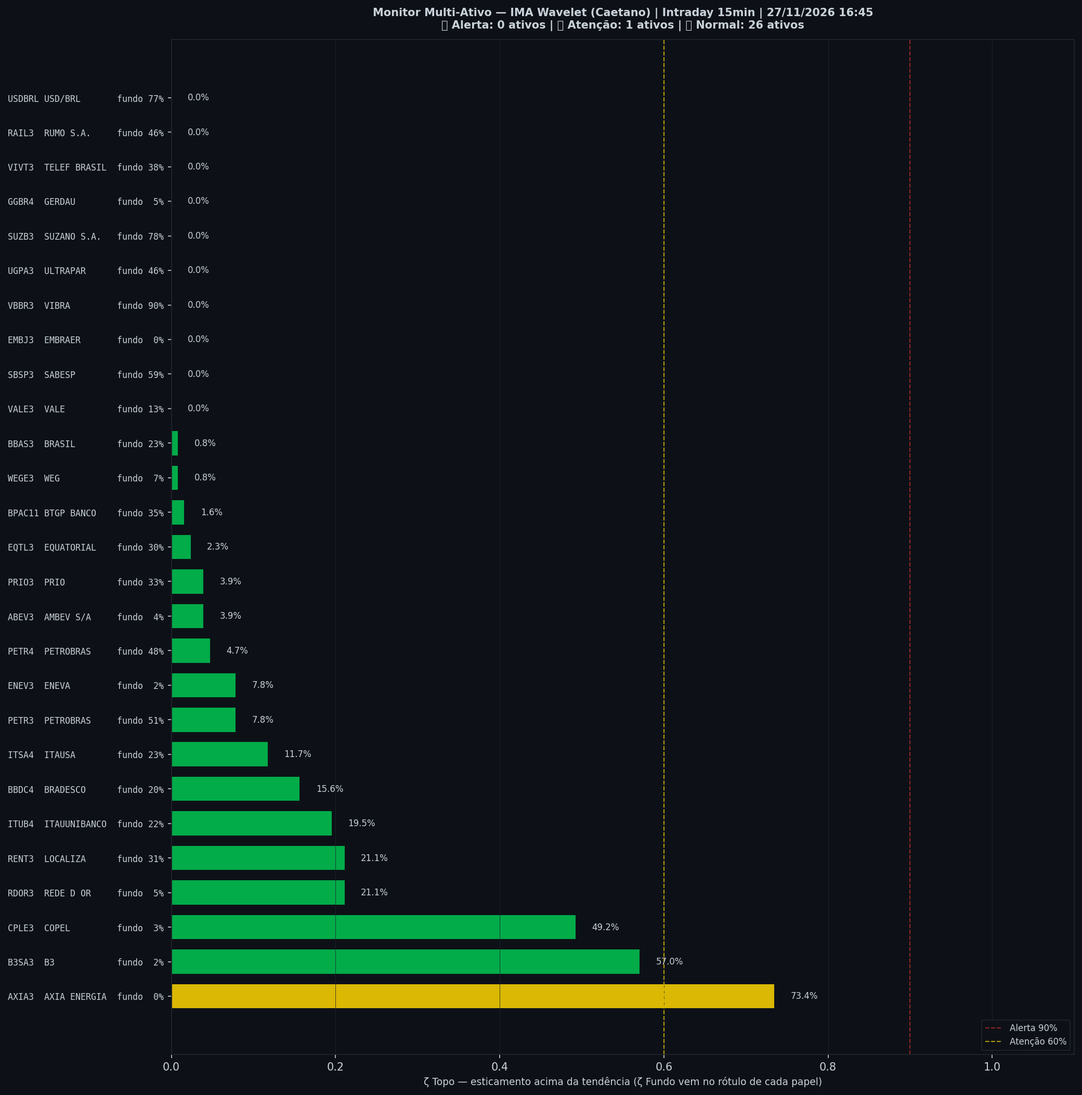
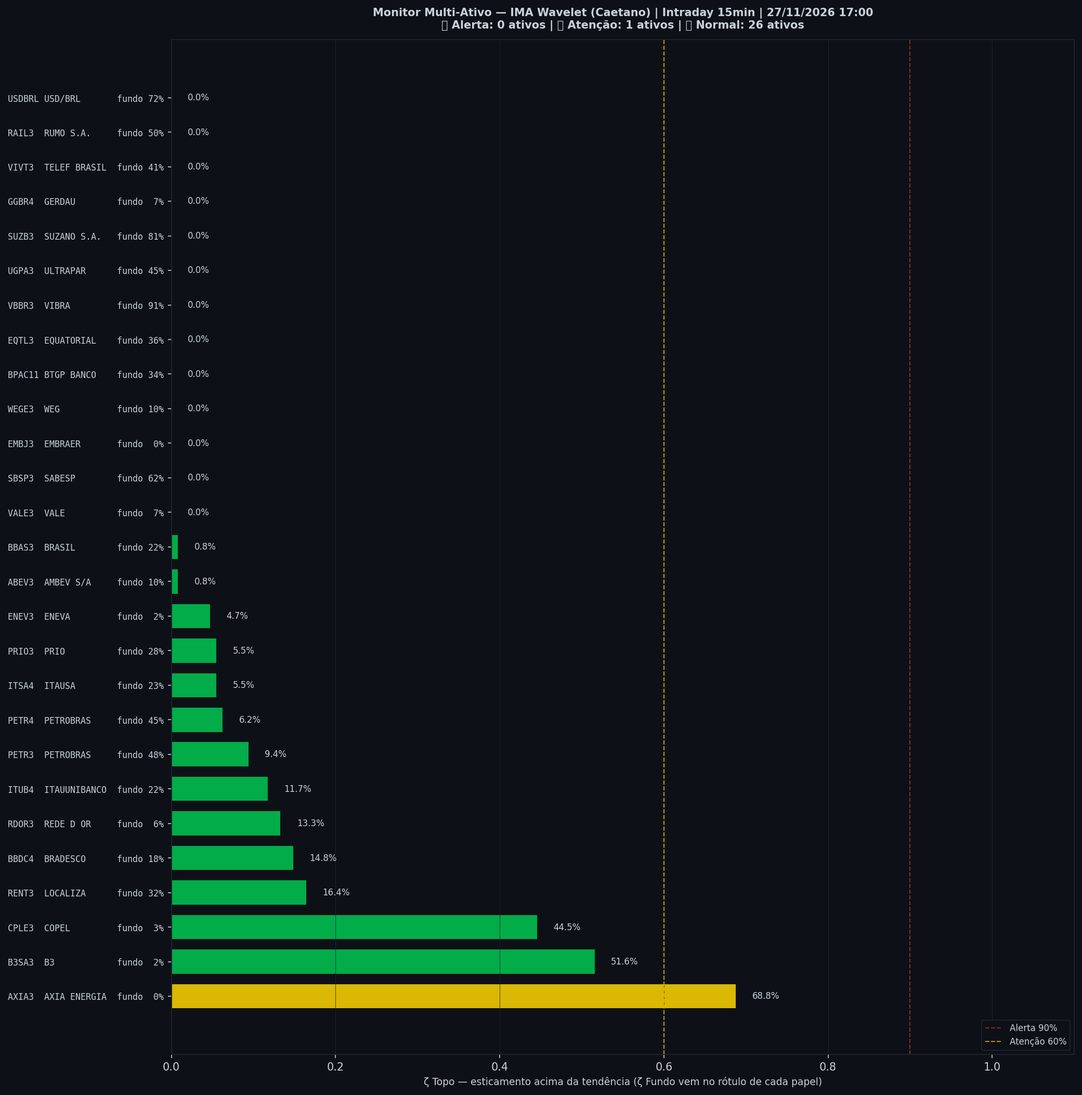
🤖 Auto: Sinal 27/11/2026 17:00

diff --git a/content/intraday/2026-11-27.md b/content/intraday/2026-11-27.md
@@ -1,19 +1,19 @@
 ---
-title: "🟢 Intraday 27/11/2026 16:30 BRT — VERDE"
+title: "🟢 Intraday 27/11/2026 16:45 BRT — VERDE"
 date: 2026-11-27
 tags: [intraday]
 ---
 
-<p style="margin:.4rem 0 .2rem"><span style="display:inline-block;text-align:center;margin:0 1.8rem .2rem 0"><span style="font-size:4rem;font-weight:800;line-height:1;color:inherit">0%</span><br><span style="font-size:.95rem;opacity:.75">ζ Topo</span></span><span style="display:inline-block;text-align:center;margin:0 1.8rem .2rem 0"><span style="font-size:4rem;font-weight:800;line-height:1;color:inherit">30%</span><br><span style="font-size:.95rem;opacity:.75">ζ Fundo</span></span><span style="display:inline-block;text-align:center;margin:0 1.8rem .2rem 0"><span style="font-size:4rem;font-weight:800;line-height:1;color:#f78166">+5,0%</span><br><span style="font-size:.95rem;opacity:.75">Dist. da média · p97</span></span></p><p data-carimbo="27/11/2026 16:30 BRT" style="margin:0 0 .9rem;opacity:.7;font-size:.9rem">27/11/2026 16:30 BRT · início do candle de 15 min</p>
+<p style="margin:.4rem 0 .2rem"><span style="display:inline-block;text-align:center;margin:0 1.8rem .2rem 0"><span style="font-size:4rem;font-weight:800;line-height:1;color:inherit">0%</span><br><span style="font-size:.95rem;opacity:.75">ζ Topo</span></span><span style="display:inline-block;text-align:center;margin:0 1.8rem .2rem 0"><span style="font-size:4rem;font-weight:800;line-height:1;color:inherit">30%</span><br><span style="font-size:.95rem;opacity:.75">ζ Fundo</span></span><span style="display:inline-block;text-align:center;margin:0 1.8rem .2rem 0"><span style="font-size:4rem;font-weight:800;line-height:1;color:#f78166">+5,0%</span><br><span style="font-size:.95rem;opacity:.75">Dist. da média · p97</span></span></p><p data-carimbo="27/11/2026 16:45 BRT" style="margin:0 0 .9rem;opacity:.7;font-size:.9rem">27/11/2026 16:45 BRT · início do candle de 15 min</p>
 
-> [!success] Onde o mercado está agora (27/11 16:30, candles de 15 min): **🟢 Sem esticamento**
+> [!success] Onde o mercado está agora (27/11 16:45, candles de 15 min): **🟢 Sem esticamento**
 > `Pânico ◀───────●─────────────▶ Euforia` · ζ Topo **0%** · ζ Fundo **30%** · régua = ζ Topo − ζ Fundo = **−30 p.p.**
 >
-> **O Ibovespa está praticamente de lado agora, aos 177.312 pontos.** O preço não fez movimento brusco em relação à sua tendência, nem para cima nem para baixo. Isso fala da velocidade do movimento, não do nível do preço.
+> **O Ibovespa está praticamente de lado agora, aos 177.375 pontos.** O preço não fez movimento brusco em relação à sua tendência, nem para cima nem para baixo. Isso fala da velocidade do movimento, não do nível do preço.
 >
 > *Leitura educacional baseada em 26 anos de dados. Não é recomendação de investimento.*
 
-> [!success] IMA Intraday · 15 min (27/11 16:30): 🟢 **VERDE** — ζ Topo **0%** · ＝ +0 p.p. vs leitura anterior
+> [!success] IMA Intraday · 15 min (27/11 16:45): 🟢 **VERDE** — ζ Topo **0%** · ＝ +0 p.p. vs leitura anterior
 > `░░░░░░░░░░░░░░░░░░░░` **0%**
 > Sem esticamento brusco em relação à tendência.
 
@@ -22,12 +22,12 @@ tags: [intraday]
 
 
 
-| Indicador — IMA Intraday · 15 min (27/11 16:30) | Valor |
+| Indicador — IMA Intraday · 15 min (27/11 16:45) | Valor |
 |---|---|
 | ζ Topo — preço esticado acima da tendência | **0%** |
 | ζ Fundo — preço esticado abaixo da tendência | 30% |
 | 🟢 Zona | VERDE |
-| 📊 Ibovespa | 177.312 pts <span style="color:#3fb950" title="subiu">▲</span> (+0,09%) |
+| 📊 Ibovespa | 177.375 pts <span style="color:#3fb950" title="subiu">▲</span> (+0,04%) |
 | 📏 Distância da média | 🔴 +5,0% (p97) |
 | 🛰 Fonte do preço | preço da corretora, tempo real |
 
@@ -39,6 +39,7 @@ tags: [intraday]
 
 | Início do candle | Fechamento | Zona | Evento | ζ Topo | ζ Fundo | Dist. média |
 |---|---|---|---|---|---|---|
+| 2026-11-27 16:45 | 177.375 <span style="color:#3fb950" title="subiu">▲</span> | 🟢 |  | **0%** | **30%** | 🔴 +5,0% (p97) |
 | 2026-11-27 16:30 | 177.312 <span style="color:#3fb950" title="subiu">▲</span> | 🟢 |  | **0%** | **30%** | 🔴 +5,0% (p97) |
 | 2026-11-27 16:15 | 177.147 <span style="color:#3fb950" title="subiu">▲</span> | 🟢 |  | **0%** | **29%** | 🔴 +4,9% (p96) |
 | 2026-11-27 16:00 | 177.055 <span style="color:#f85149" title="caiu">▼</span> | 🟢 |  | **4%** | **29%** | 🔴 +4,8% (p96) |
@@ -68,54 +69,53 @@ tags: [intraday]
 | 2026-11-27 10:00 | 183.289 <span style="color:#3fb950" title="subiu">▲</span> | 🔴 |  | 🔴 **97%** | **1%** | 🔴 +9,1% (p100) |
 | 2026-11-26 18:00 | 176.800 <span style="opacity:.45" title="estável">▬</span> | 🔴 |  | 🔴 **99%** | **1%** | 🔴 +5,3% (p100) |
 | 2026-11-26 17:45 | 176.800 <span style="color:#3fb950" title="subiu">▲</span> | 🔴 |  | 🔴 **98%** | **2%** | 🔴 +5,3% (p100) |
-| 2026-11-26 17:30 | 175.491 <span style="color:#3fb950" title="subiu">▲</span> | 🔴 |  | 🔴 **97%** | **2%** | 🔴 +4,5% (p100) |
 
 <small>Destaques: 🟡 ≥ 60% · 🔴 ≥ 90% (ζ Topo) · 🔵 ≥ 60% · 🔪 ≥ 90% (ζ Fundo)<br>**Zona**: 🟢 calmo, 🟡 atenção e 🔴 extremo vêm do ζ Topo; 🔵 FUNDO (ζ Fundo ≥ 60%) e 🔪 FACA (≥ 90%) vêm do ζ Fundo e têm precedência, porque queda em andamento é fato medido, não previsão.<br>**Dist. média**: a distância do preço à média dos 252 candles de 15 min — **≈ 7,6 pregões**, medido em 33 barras por pregão — e, entre parênteses, o percentil dessa distância nos 500 candles anteriores (**≈ 15 pregões**). `−8,2% (p0)` = o preço está 8,2% **abaixo** da média e nunca esteve tão abaixo em toda a janela. 🔵 ≤ p10 · 🔴 ≥ p90. É a régua simples contra a qual o ζ precisa provar que acrescenta algo.</small>
 
 ## Monitor Multi-Ativo
 
-**22% dos ativos em tensão** (6 de 27 · 3🔵 3🟡) · leitura de 27/11 16:45 BRT, candles de 15 min — quanto mais ativos disparam juntos, mais confiável o sinal. 🔪 e 🔵 vêm do ζ Fundo; 🔴 e 🟡, do ζ Topo.
+**22% dos ativos em tensão** (6 de 27 · 1🔪 3🔵 2🟡) · leitura de 27/11 17:00 BRT, candles de 15 min — quanto mais ativos disparam juntos, mais confiável o sinal. 🔪 e 🔵 vêm do ζ Fundo; 🔴 e 🟡, do ζ Topo.
 
 *Origem do preço: 26 da corretora, em tempo real · 1 da reserva, com cerca de 45 min de atraso (USD/BRL).*
 
-> [!warning] Em destaque no multi-ativo
-> 🔵 **VIBRA** `VBBR3` ζ Fundo 90% · 🔵 **SUZANO S.A.** `SUZB3` ζ Fundo 78% · 🔵 **USD/BRL** `USDBRL=X` ζ Fundo 77% · 🟡 **AXIA ENERGIA** `AXIA3` ζ Topo 73%
+> [!danger] Em destaque no multi-ativo
+> 🔪 **VIBRA** `VBBR3` ζ Fundo 91% · 🔵 **SUZANO S.A.** `SUZB3` ζ Fundo 81% · 🔵 **USD/BRL** `USDBRL=X` ζ Fundo 72% · 🟡 **AXIA ENERGIA** `AXIA3` ζ Topo 69% · 🔵 **SABESP** `SBSP3` ζ Fundo 62%
 
 | Zona | Ativo | Setor | Fechamento | ζ Topo | ζ Fundo | Dist. média |
 |---|---|---|---|---|---|---|
-| 🔵 | **VIBRA** `VBBR3` | Energia | 33,98 <span style="color:#3fb950" title="subiu">▲</span> | 0.0% | 🔵 **89.8%** | 🔴 +7,6% (p91) |
-| 🔵 | **SUZANO S.A.** `SUZB3` | Papel/Celulose | 53,05 <span style="color:#3fb950" title="subiu">▲</span> | 0.0% | 🔵 **78.1%** | 🔵 −3,8% (p2) |
-| 🔵 | **USD/BRL** `USDBRL=X` | Câmbio | 5,52 <span style="color:#f85149" title="caiu">▼</span> | 0.0% | 🔵 **76.6%** | 🔵 −5,2% (p1) |
-| 🟡 | **AXIA ENERGIA** `AXIA3` | Energia | 50,73 <span style="color:#3fb950" title="subiu">▲</span> | 🟡 **73.4%** | 0.0% | 🔴 +7,7% (p96) |
-| 🟢 | **SABESP** `SBSP3` | Saneamento | 30,19 <span style="color:#3fb950" title="subiu">▲</span> | 0.0% | 59.4% | +6,7% (p74) |
-| 🟡 | **B3** `B3SA3` | Financeiro | 17,24 <span style="color:#3fb950" title="subiu">▲</span> | 57.0% | 1.6% | 🔴 +16,0% (p98) |
-| 🟢 | **PETROBRAS** `PETR3` | Petróleo | 47,72 <span style="color:#3fb950" title="subiu">▲</span> | 7.8% | 50.8% | −1,0% (p82) |
-| 🟡 | **COPEL** `CPLE3` | Energia | 16,32 <span style="color:#3fb950" title="subiu">▲</span> | 49.2% | 3.1% | 🔴 +6,3% (p98) |
-| 🟢 | **PETROBRAS** `PETR4` | Petróleo | 42,24 <span style="color:#3fb950" title="subiu">▲</span> | 4.7% | 47.7% | 🔴 −0,4% (p92) |
-| 🟢 | **ULTRAPAR** `UGPA3` | Outros | 32,33 <span style="color:#3fb950" title="subiu">▲</span> | 0.0% | 46.1% | +4,5% (p85) |
-| 🟢 | **RUMO S.A.** `RAIL3` | Outros | 17,96 <span style="color:#3fb950" title="subiu">▲</span> | 0.0% | 46.1% | +5,0% (p51) |
-| 🟢 | **TELEF BRASIL** `VIVT3` | Outros | 35,33 <span style="color:#3fb950" title="subiu">▲</span> | 0.0% | 37.5% | 🔵 −0,3% (p7) |
-| 🟢 | **BTGP BANCO** `BPAC11` | Financeiro | 60,32 <span style="color:#3fb950" title="subiu">▲</span> | 1.6% | 35.2% | 🔴 +14,2% (p96) |
-| 🟢 | **PRIO** `PRIO3` | Petróleo | 62,04 <span style="color:#3fb950" title="subiu">▲</span> | 3.9% | 32.8% | +1,5% (p79) |
-| 🟢 | **LOCALIZA** `RENT3` | Aluguel | 34,22 <span style="color:#3fb950" title="subiu">▲</span> | 21.1% | 31.2% | 🔴 +13,1% (p95) |
-| 🟢 | **EQUATORIAL** `EQTL3` | Energia | 38,33 <span style="color:#3fb950" title="subiu">▲</span> | 2.3% | 30.5% | 🔴 +10,9% (p95) |
-| 🟢 | **ITAUSA** `ITSA4` | Financeiro | 14,16 <span style="color:#3fb950" title="subiu">▲</span> | 11.7% | 23.4% | 🔴 +6,4% (p97) |
-| 🟢 | **BRASIL** `BBAS3` | Financeiro | 16,80 <span style="color:#3fb950" title="subiu">▲</span> | 0.8% | 22.7% | 🔴 +12,9% (p96) |
-| 🟢 | **ITAUUNIBANCO** `ITUB4` | Financeiro | 43,04 <span style="color:#3fb950" title="subiu">▲</span> | 19.5% | 21.9% | 🔴 +5,8% (p97) |
-| 🟢 | **REDE D OR** `RDOR3` | Saúde | 39,74 <span style="color:#3fb950" title="subiu">▲</span> | 21.1% | 5.5% | 🔴 +7,3% (p96) |
-| 🟢 | **BRADESCO** `BBDC4` | Financeiro | 16,09 <span style="color:#3fb950" title="subiu">▲</span> | 15.6% | 19.5% | 🔴 +11,9% (p98) |
-| 🟢 | **VALE** `VALE3` | Mineração | 57,43 <span style="color:#3fb950" title="subiu">▲</span> | 0.0% | 13.3% | −1,3% (p51) |
-| 🟢 | **ENEVA** `ENEV3` | Energia | 29,49 <span style="color:#3fb950" title="subiu">▲</span> | 7.8% | 1.6% | 🔴 +9,1% (p96) |
-| 🟢 | **WEG** `WEGE3` | Industrial | 50,51 <span style="color:#3fb950" title="subiu">▲</span> | 0.8% | 7.0% | −0,2% (p29) |
-| 🟢 | **GERDAU** `GGBR4` | Siderurgia | 26,23 <span style="color:#f85149" title="caiu">▼</span> | 0.0% | 5.5% | +2,4% (p66) |
-| 🟢 | **AMBEV S/A** `ABEV3` | Consumo | 16,31 <span style="opacity:.45" title="estável">▬</span> | 3.9% | 3.9% | +1,5% (p44) |
-| 🟢 | **EMBRAER** `EMBJ3` | Outros | 104,72 <span style="color:#f85149" title="caiu">▼</span> | 0.0% | 0.0% | −2,1% (p27) |
+| 🔪 | **VIBRA** `VBBR3` | Energia | 34,23 <span style="color:#3fb950" title="subiu">▲</span> | 0.0% | 🔪 **91.4%** | 🔴 +8,3% (p92) |
+| 🔵 | **SUZANO S.A.** `SUZB3` | Papel/Celulose | 52,50 <span style="color:#f85149" title="caiu">▼</span> | 0.0% | 🔵 **81.2%** | 🔵 −4,8% (p1) |
+| 🔵 | **USD/BRL** `USDBRL=X` | Câmbio | 5,51 <span style="color:#f85149" title="caiu">▼</span> | 0.0% | 🔵 **71.9%** | 🔵 −5,3% (p1) |
+| 🟡 | **AXIA ENERGIA** `AXIA3` | Energia | 50,82 <span style="color:#3fb950" title="subiu">▲</span> | 🟡 **68.8%** | 0.0% | 🔴 +7,9% (p97) |
+| 🔵 | **SABESP** `SBSP3` | Saneamento | 30,15 <span style="color:#f85149" title="caiu">▼</span> | 0.0% | 🔵 **62.5%** | +6,6% (p70) |
+| 🟡 | **B3** `B3SA3` | Financeiro | 17,29 <span style="color:#3fb950" title="subiu">▲</span> | 51.6% | 1.6% | 🔴 +16,3% (p98) |
+| 🟢 | **RUMO S.A.** `RAIL3` | Outros | 17,90 <span style="color:#f85149" title="caiu">▼</span> | 0.0% | 50.0% | +4,6% (p44) |
+| 🟢 | **PETROBRAS** `PETR3` | Petróleo | 47,88 <span style="color:#3fb950" title="subiu">▲</span> | 9.4% | 48.4% | −0,7% (p87) |
+| 🟢 | **PETROBRAS** `PETR4` | Petróleo | 42,32 <span style="color:#3fb950" title="subiu">▲</span> | 6.2% | 45.3% | 🔴 −0,2% (p94) |
+| 🟢 | **ULTRAPAR** `UGPA3` | Outros | 32,39 <span style="color:#3fb950" title="subiu">▲</span> | 0.0% | 45.3% | +4,7% (p87) |
+| 🟢 | **COPEL** `CPLE3` | Energia | 16,31 <span style="color:#f85149" title="caiu">▼</span> | 44.5% | 3.1% | 🔴 +6,2% (p97) |
+| 🟢 | **TELEF BRASIL** `VIVT3` | Outros | 35,34 <span style="color:#3fb950" title="subiu">▲</span> | 0.0% | 40.6% | 🔵 −0,2% (p7) |
+| 🟢 | **EQUATORIAL** `EQTL3` | Energia | 38,49 <span style="color:#3fb950" title="subiu">▲</span> | 0.0% | 35.9% | 🔴 +11,3% (p96) |
+| 🟢 | **BTGP BANCO** `BPAC11` | Financeiro | 60,37 <span style="color:#3fb950" title="subiu">▲</span> | 0.0% | 34.4% | 🔴 +14,3% (p96) |
+| 🟢 | **LOCALIZA** `RENT3` | Aluguel | 34,23 <span style="color:#3fb950" title="subiu">▲</span> | 16.4% | 32.0% | 🔴 +13,1% (p94) |
+| 🟢 | **PRIO** `PRIO3` | Petróleo | 61,89 <span style="color:#f85149" title="caiu">▼</span> | 5.5% | 28.1% | +1,3% (p74) |
+| 🟢 | **ITAUSA** `ITSA4` | Financeiro | 14,16 <span style="opacity:.45" title="estável">▬</span> | 5.5% | 23.4% | 🔴 +6,3% (p97) |
+| 🟢 | **ITAUUNIBANCO** `ITUB4` | Financeiro | 43,03 <span style="color:#f85149" title="caiu">▼</span> | 11.7% | 21.9% | 🔴 +5,7% (p96) |
+| 🟢 | **BRASIL** `BBAS3` | Financeiro | 16,83 <span style="color:#3fb950" title="subiu">▲</span> | 0.8% | 21.9% | 🔴 +13,1% (p96) |
+| 🟢 | **BRADESCO** `BBDC4` | Financeiro | 16,14 <span style="color:#3fb950" title="subiu">▲</span> | 14.8% | 18.0% | 🔴 +12,2% (p98) |
+| 🟢 | **REDE D OR** `RDOR3` | Saúde | 39,77 <span style="color:#3fb950" title="subiu">▲</span> | 13.3% | 6.2% | 🔴 +7,3% (p96) |
+| 🟢 | **WEG** `WEGE3` | Industrial | 50,33 <span style="color:#f85149" title="caiu">▼</span> | 0.0% | 10.2% | −0,6% (p24) |
+| 🟢 | **AMBEV S/A** `ABEV3` | Consumo | 16,34 <span style="color:#3fb950" title="subiu">▲</span> | 0.8% | 10.2% | +1,7% (p52) |
+| 🟢 | **VALE** `VALE3` | Mineração | 57,35 <span style="color:#f85149" title="caiu">▼</span> | 0.0% | 7.0% | −1,4% (p50) |
+| 🟢 | **GERDAU** `GGBR4` | Siderurgia | 26,08 <span style="color:#f85149" title="caiu">▼</span> | 0.0% | 7.0% | +1,8% (p59) |
+| 🟢 | **ENEVA** `ENEV3` | Energia | 29,53 <span style="color:#3fb950" title="subiu">▲</span> | 4.7% | 2.3% | 🔴 +9,2% (p97) |
+| 🟢 | **EMBRAER** `EMBJ3` | Outros | 104,16 <span style="color:#f85149" title="caiu">▼</span> | 0.0% | 0.0% | −2,6% (p21) |
 
 <small>Destaques: 🟡 ≥ 60% · 🔴 ≥ 90% (ζ Topo) · 🔵 ≥ 60% · 🔪 ≥ 90% (ζ Fundo)<br>**Zona**: 🟢 calmo, 🟡 atenção e 🔴 extremo vêm do ζ Topo; 🔵 FUNDO (ζ Fundo ≥ 60%) e 🔪 FACA (≥ 90%) vêm do ζ Fundo e têm precedência, porque queda em andamento é fato medido, não previsão.<br>**Dist. média**: a distância do preço à média dos 252 candles de 15 min — **≈ 7,6 pregões**, medido em 33 barras por pregão — e, entre parênteses, o percentil dessa distância nos 500 candles anteriores (**≈ 15 pregões**). `−8,2% (p0)` = o preço está 8,2% **abaixo** da média e nunca esteve tão abaixo em toda a janela. 🔵 ≤ p10 · 🔴 ≥ p90. É a régua simples contra a qual o ζ precisa provar que acrescenta algo.</small>
 
 ![Monitor multi-ativo](../graficos/multi_intraday.png)
 
-*Página atualizada em 27/11/2026 16:45 BRT (leitura da barra de 2026-11-27 16:30 BRT · preço da corretora, tempo real).*
+*Página atualizada em 27/11/2026 17:00 BRT (leitura da barra de 2026-11-27 16:45 BRT · preço da corretora, tempo real).*
 
 > [!warning] O que este indicador não faz
 > Medido em 5 anos de Ibovespa, o ζ **não antecipa** topos nem fundos: a capacidade de separar o que sobe do que cai ficou em 0,49–0,52, e 0,50 é moeda jogada ao ar. Ele descreve o estado de agora; não é aviso do que vem. As zonas verde/amarelo/vermelho continuam na página como descrição desse estado — **não as use como sinal de entrada ou saída**.

diff --git a/content/intraday/index.md b/content/intraday/index.md
@@ -9,16 +9,16 @@ title: "🌊 IMA Intraday"
 > *Todos os pontos de atenção do site estão juntos em [Avisos](/avisos/).*
 <!-- NOTAS-FIM -->
 
-<p style="margin:.4rem 0 .2rem"><span style="display:inline-block;text-align:center;margin:0 1.8rem .2rem 0"><span style="font-size:4rem;font-weight:800;line-height:1;color:inherit">0%</span><br><span style="font-size:.95rem;opacity:.75">ζ Topo</span></span><span style="display:inline-block;text-align:center;margin:0 1.8rem .2rem 0"><span style="font-size:4rem;font-weight:800;line-height:1;color:inherit">30%</span><br><span style="font-size:.95rem;opacity:.75">ζ Fundo</span></span><span style="display:inline-block;text-align:center;margin:0 1.8rem .2rem 0"><span style="font-size:4rem;font-weight:800;line-height:1;color:#f78166">+5,0%</span><br><span style="font-size:.95rem;opacity:.75">Dist. da média · p97</span></span></p><p data-carimbo="27/11/2026 16:30 BRT" style="margin:0 0 .9rem;opacity:.7;font-size:.9rem">27/11/2026 16:30 BRT · início do candle de 15 min</p>
+<p style="margin:.4rem 0 .2rem"><span style="display:inline-block;text-align:center;margin:0 1.8rem .2rem 0"><span style="font-size:4rem;font-weight:800;line-height:1;color:inherit">0%</span><br><span style="font-size:.95rem;opacity:.75">ζ Topo</span></span><span style="display:inline-block;text-align:center;margin:0 1.8rem .2rem 0"><span style="font-size:4rem;font-weight:800;line-height:1;color:inherit">30%</span><br><span style="font-size:.95rem;opacity:.75">ζ Fundo</span></span><span style="display:inline-block;text-align:center;margin:0 1.8rem .2rem 0"><span style="font-size:4rem;font-weight:800;line-height:1;color:#f78166">+5,0%</span><br><span style="font-size:.95rem;opacity:.75">Dist. da média · p97</span></span></p><p data-carimbo="27/11/2026 16:45 BRT" style="margin:0 0 .9rem;opacity:.7;font-size:.9rem">27/11/2026 16:45 BRT · início do candle de 15 min</p>
 
-> [!success] Onde o mercado está agora (27/11 16:30, candles de 15 min): **🟢 Sem esticamento**
+> [!success] Onde o mercado está agora (27/11 16:45, candles de 15 min): **🟢 Sem esticamento**
 > `Pânico ◀───────●─────────────▶ Euforia` · ζ Topo **0%** · ζ Fundo **30%** · régua = ζ Topo − ζ Fundo = **−30 p.p.**
 >
-> **O Ibovespa está praticamente de lado agora, aos 177.312 pontos.** O preço não fez movimento brusco em relação à sua tendência, nem para cima nem para baixo. Isso fala da velocidade do movimento, não do nível do preço.
+> **O Ibovespa está praticamente de lado agora, aos 177.375 pontos.** O preço não fez movimento brusco em relação à sua tendência, nem para cima nem para baixo. Isso fala da velocidade do movimento, não do nível do preço.
 >
 > *Leitura educacional baseada em 26 anos de dados. Não é recomendação de investimento.*
 
-> [!success] IMA Intraday · 15 min (27/11 16:30): 🟢 **VERDE** — ζ Topo **0%** · ＝ +0 p.p. vs leitura anterior
+> [!success] IMA Intraday · 15 min (27/11 16:45): 🟢 **VERDE** — ζ Topo **0%** · ＝ +0 p.p. vs leitura anterior
 > `░░░░░░░░░░░░░░░░░░░░` **0%**
 > Sem esticamento brusco em relação à tendência.
 
@@ -27,12 +27,12 @@ title: "🌊 IMA Intraday"
 
 
 
-| Indicador — IMA Intraday · 15 min (27/11 16:30) | Valor |
+| Indicador — IMA Intraday · 15 min (27/11 16:45) | Valor |
 |---|---|
 | ζ Topo — preço esticado acima da tendência | **0%** |
 | ζ Fundo — preço esticado abaixo da tendência | 30% |
 | 🟢 Zona | VERDE |
-| 📊 Ibovespa | 177.312 pts <span style="color:#3fb950" title="subiu">▲</span> (+0,09%) |
+| 📊 Ibovespa | 177.375 pts <span style="color:#3fb950" title="subiu">▲</span> (+0,04%) |
 | 📏 Distância da média | 🔴 +5,0% (p97) |
 | 🛰 Fonte do preço | preço da corretora, tempo real |
 
@@ -44,6 +44,7 @@ title: "🌊 IMA Intraday"
 
 | Início do candle | Fechamento | Zona | Evento | ζ Topo | ζ Fundo | Dist. média |
 |---|---|---|---|---|---|---|
+| 2026-11-27 16:45 | 177.375 <span style="color:#3fb950" title="subiu">▲</span> | 🟢 |  | **0%** | **30%** | 🔴 +5,0% (p97) |
 | 2026-11-27 16:30 | 177.312 <span style="color:#3fb950" title="subiu">▲</span> | 🟢 |  | **0%** | **30%** | 🔴 +5,0% (p97) |
 | 2026-11-27 16:15 | 177.147 <span style="color:#3fb950" title="subiu">▲</span> | 🟢 |  | **0%** | **29%** | 🔴 +4,9% (p96) |
 | 2026-11-27 16:00 | 177.055 <span style="color:#f85149" title="caiu">▼</span> | 🟢 |  | **4%** | **29%** | 🔴 +4,8% (p96) |
@@ -73,54 +74,53 @@ title: "🌊 IMA Intraday"
 | 2026-11-27 10:00 | 183.289 <span style="color:#3fb950" title="subiu">▲</span> | 🔴 |  | 🔴 **97%** | **1%** | 🔴 +9,1% (p100) |
 | 2026-11-26 18:00 | 176.800 <span style="opacity:.45" title="estável">▬</span> | 🔴 |  | 🔴 **99%** | **1%** | 🔴 +5,3% (p100) |
 | 2026-11-26 17:45 | 176.800 <span style="color:#3fb950" title="subiu">▲</span> | 🔴 |  | 🔴 **98%** | **2%** | 🔴 +5,3% (p100) |
-| 2026-11-26 17:30 | 175.491 <span style="color:#3fb950" title="subiu">▲</span> | 🔴 |  | 🔴 **97%** | **2%** | 🔴 +4,5% (p100) |
 
 <small>Destaques: 🟡 ≥ 60% · 🔴 ≥ 90% (ζ Topo) · 🔵 ≥ 60% · 🔪 ≥ 90% (ζ Fundo)<br>**Zona**: 🟢 calmo, 🟡 atenção e 🔴 extremo vêm do ζ Topo; 🔵 FUNDO (ζ Fundo ≥ 60%) e 🔪 FACA (≥ 90%) vêm do ζ Fundo e têm precedência, porque queda em andamento é fato medido, não previsão.<br>**Dist. média**: a distância do preço à média dos 252 candles de 15 min — **≈ 7,6 pregões**, medido em 33 barras por pregão — e, entre parênteses, o percentil dessa distância nos 500 candles anteriores (**≈ 15 pregões**). `−8,2% (p0)` = o preço está 8,2% **abaixo** da média e nunca esteve tão abaixo em toda a janela. 🔵 ≤ p10 · 🔴 ≥ p90. É a régua simples contra a qual o ζ precisa provar que acrescenta algo.</small>
 
 ## Monitor Multi-Ativo
 
-**22% dos ativos em tensão** (6 de 27 · 3🔵 3🟡) · leitura de 27/11 16:45 BRT, candles de 15 min — quanto mais ativos disparam juntos, mais confiável o sinal. 🔪 e 🔵 vêm do ζ Fundo; 🔴 e 🟡, do ζ Topo.
+**22% dos ativos em tensão** (6 de 27 · 1🔪 3🔵 2🟡) · leitura de 27/11 17:00 BRT, candles de 15 min — quanto mais ativos disparam juntos, mais confiável o sinal. 🔪 e 🔵 vêm do ζ Fundo; 🔴 e 🟡, do ζ Topo.
 
 *Origem do preço: 26 da corretora, em tempo real · 1 da reserva, com cerca de 45 min de atraso (USD/BRL).*
 
-> [!warning] Em destaque no multi-ativo
-> 🔵 **VIBRA** `VBBR3` ζ Fundo 90% · 🔵 **SUZANO S.A.** `SUZB3` ζ Fundo 78% · 🔵 **USD/BRL** `USDBRL=X` ζ Fundo 77% · 🟡 **AXIA ENERGIA** `AXIA3` ζ Topo 73%
+> [!danger] Em destaque no multi-ativo
+> 🔪 **VIBRA** `VBBR3` ζ Fundo 91% · 🔵 **SUZANO S.A.** `SUZB3` ζ Fundo 81% · 🔵 **USD/BRL** `USDBRL=X` ζ Fundo 72% · 🟡 **AXIA ENERGIA** `AXIA3` ζ Topo 69% · 🔵 **SABESP** `SBSP3` ζ Fundo 62%
 
 | Zona | Ativo | Setor | Fechamento | ζ Topo | ζ Fundo | Dist. média |
 |---|---|---|---|---|---|---|
-| 🔵 | **VIBRA** `VBBR3` | Energia | 33,98 <span style="color:#3fb950" title="subiu">▲</span> | 0.0% | 🔵 **89.8%** | 🔴 +7,6% (p91) |
-| 🔵 | **SUZANO S.A.** `SUZB3` | Papel/Celulose | 53,05 <span style="color:#3fb950" title="subiu">▲</span> | 0.0% | 🔵 **78.1%** | 🔵 −3,8% (p2) |
-| 🔵 | **USD/BRL** `USDBRL=X` | Câmbio | 5,52 <span style="color:#f85149" title="caiu">▼</span> | 0.0% | 🔵 **76.6%** | 🔵 −5,2% (p1) |
-| 🟡 | **AXIA ENERGIA** `AXIA3` | Energia | 50,73 <span style="color:#3fb950" title="subiu">▲</span> | 🟡 **73.4%** | 0.0% | 🔴 +7,7% (p96) |
-| 🟢 | **SABESP** `SBSP3` | Saneamento | 30,19 <span style="color:#3fb950" title="subiu">▲</span> | 0.0% | 59.4% | +6,7% (p74) |
-| 🟡 | **B3** `B3SA3` | Financeiro | 17,24 <span style="color:#3fb950" title="subiu">▲</span> | 57.0% | 1.6% | 🔴 +16,0% (p98) |
-| 🟢 | **PETROBRAS** `PETR3` | Petróleo | 47,72 <span style="color:#3fb950" title="subiu">▲</span> | 7.8% | 50.8% | −1,0% (p82) |
-| 🟡 | **COPEL** `CPLE3` | Energia | 16,32 <span style="color:#3fb950" title="subiu">▲</span> | 49.2% | 3.1% | 🔴 +6,3% (p98) |
-| 🟢 | **PETROBRAS** `PETR4` | Petróleo | 42,24 <span style="color:#3fb950" title="subiu">▲</span> | 4.7% | 47.7% | 🔴 −0,4% (p92) |
-| 🟢 | **ULTRAPAR** `UGPA3` | Outros | 32,33 <span style="color:#3fb950" title="subiu">▲</span> | 0.0% | 46.1% | +4,5% (p85) |
-| 🟢 | **RUMO S.A.** `RAIL3` | Outros | 17,96 <span style="color:#3fb950" title="subiu">▲</span> | 0.0% | 46.1% | +5,0% (p51) |
-| 🟢 | **TELEF BRASIL** `VIVT3` | Outros | 35,33 <span style="color:#3fb950" title="subiu">▲</span> | 0.0% | 37.5% | 🔵 −0,3% (p7) |
-| 🟢 | **BTGP BANCO** `BPAC11` | Financeiro | 60,32 <span style="color:#3fb950" title="subiu">▲</span> | 1.6% | 35.2% | 🔴 +14,2% (p96) |
-| 🟢 | **PRIO** `PRIO3` | Petróleo | 62,04 <span style="color:#3fb950" title="subiu">▲</span> | 3.9% | 32.8% | +1,5% (p79) |
-| 🟢 | **LOCALIZA** `RENT3` | Aluguel | 34,22 <span style="color:#3fb950" title="subiu">▲</span> | 21.1% | 31.2% | 🔴 +13,1% (p95) |
-| 🟢 | **EQUATORIAL** `EQTL3` | Energia | 38,33 <span style="color:#3fb950" title="subiu">▲</span> | 2.3% | 30.5% | 🔴 +10,9% (p95) |
-| 🟢 | **ITAUSA** `ITSA4` | Financeiro | 14,16 <span style="color:#3fb950" title="subiu">▲</span> | 11.7% | 23.4% | 🔴 +6,4% (p97) |
-| 🟢 | **BRASIL** `BBAS3` | Financeiro | 16,80 <span style="color:#3fb950" title="subiu">▲</span> | 0.8% | 22.7% | 🔴 +12,9% (p96) |
-| 🟢 | **ITAUUNIBANCO** `ITUB4` | Financeiro | 43,04 <span style="color:#3fb950" title="subiu">▲</span> | 19.5% | 21.9% | 🔴 +5,8% (p97) |
-| 🟢 | **REDE D OR** `RDOR3` | Saúde | 39,74 <span style="color:#3fb950" title="subiu">▲</span> | 21.1% | 5.5% | 🔴 +7,3% (p96) |
-| 🟢 | **BRADESCO** `BBDC4` | Financeiro | 16,09 <span style="color:#3fb950" title="subiu">▲</span> | 15.6% | 19.5% | 🔴 +11,9% (p98) |
-| 🟢 | **VALE** `VALE3` | Mineração | 57,43 <span style="color:#3fb950" title="subiu">▲</span> | 0.0% | 13.3% | −1,3% (p51) |
-| 🟢 | **ENEVA** `ENEV3` | Energia | 29,49 <span style="color:#3fb950" title="subiu">▲</span> | 7.8% | 1.6% | 🔴 +9,1% (p96) |
-| 🟢 | **WEG** `WEGE3` | Industrial | 50,51 <span style="color:#3fb950" title="subiu">▲</span> | 0.8% | 7.0% | −0,2% (p29) |
-| 🟢 | **GERDAU** `GGBR4` | Siderurgia | 26,23 <span style="color:#f85149" title="caiu">▼</span> | 0.0% | 5.5% | +2,4% (p66) |
-| 🟢 | **AMBEV S/A** `ABEV3` | Consumo | 16,31 <span style="opacity:.45" title="estável">▬</span> | 3.9% | 3.9% | +1,5% (p44) |
-| 🟢 | **EMBRAER** `EMBJ3` | Outros | 104,72 <span style="color:#f85149" title="caiu">▼</span> | 0.0% | 0.0% | −2,1% (p27) |
+| 🔪 | **VIBRA** `VBBR3` | Energia | 34,23 <span style="color:#3fb950" title="subiu">▲</span> | 0.0% | 🔪 **91.4%** | 🔴 +8,3% (p92) |
+| 🔵 | **SUZANO S.A.** `SUZB3` | Papel/Celulose | 52,50 <span style="color:#f85149" title="caiu">▼</span> | 0.0% | 🔵 **81.2%** | 🔵 −4,8% (p1) |
+| 🔵 | **USD/BRL** `USDBRL=X` | Câmbio | 5,51 <span style="color:#f85149" title="caiu">▼</span> | 0.0% | 🔵 **71.9%** | 🔵 −5,3% (p1) |
+| 🟡 | **AXIA ENERGIA** `AXIA3` | Energia | 50,82 <span style="color:#3fb950" title="subiu">▲</span> | 🟡 **68.8%** | 0.0% | 🔴 +7,9% (p97) |
+| 🔵 | **SABESP** `SBSP3` | Saneamento | 30,15 <span style="color:#f85149" title="caiu">▼</span> | 0.0% | 🔵 **62.5%** | +6,6% (p70) |
+| 🟡 | **B3** `B3SA3` | Financeiro | 17,29 <span style="color:#3fb950" title="subiu">▲</span> | 51.6% | 1.6% | 🔴 +16,3% (p98) |
+| 🟢 | **RUMO S.A.** `RAIL3` | Outros | 17,90 <span style="color:#f85149" title="caiu">▼</span> | 0.0% | 50.0% | +4,6% (p44) |
+| 🟢 | **PETROBRAS** `PETR3` | Petróleo | 47,88 <span style="color:#3fb950" title="subiu">▲</span> | 9.4% | 48.4% | −0,7% (p87) |
+| 🟢 | **PETROBRAS** `PETR4` | Petróleo | 42,32 <span style="color:#3fb950" title="subiu">▲</span> | 6.2% | 45.3% | 🔴 −0,2% (p94) |
+| 🟢 | **ULTRAPAR** `UGPA3` | Outros | 32,39 <span style="color:#3fb950" title="subiu">▲</span> | 0.0% | 45.3% | +4,7% (p87) |
+| 🟢 | **COPEL** `CPLE3` | Energia | 16,31 <span style="color:#f85149" title="caiu">▼</span> | 44.5% | 3.1% | 🔴 +6,2% (p97) |
+| 🟢 | **TELEF BRASIL** `VIVT3` | Outros | 35,34 <span style="color:#3fb950" title="subiu">▲</span> | 0.0% | 40.6% | 🔵 −0,2% (p7) |
+| 🟢 | **EQUATORIAL** `EQTL3` | Energia | 38,49 <span style="color:#3fb950" title="subiu">▲</span> | 0.0% | 35.9% | 🔴 +11,3% (p96) |
+| 🟢 | **BTGP BANCO** `BPAC11` | Financeiro | 60,37 <span style="color:#3fb950" title="subiu">▲</span> | 0.0% | 34.4% | 🔴 +14,3% (p96) |
+| 🟢 | **LOCALIZA** `RENT3` | Aluguel | 34,23 <span style="color:#3fb950" title="subiu">▲</span> | 16.4% | 32.0% | 🔴 +13,1% (p94) |
+| 🟢 | **PRIO** `PRIO3` | Petróleo | 61,89 <span style="color:#f85149" title="caiu">▼</span> | 5.5% | 28.1% | +1,3% (p74) |
+| 🟢 | **ITAUSA** `ITSA4` | Financeiro | 14,16 <span style="opacity:.45" title="estável">▬</span> | 5.5% | 23.4% | 🔴 +6,3% (p97) |
+| 🟢 | **ITAUUNIBANCO** `ITUB4` | Financeiro | 43,03 <span style="color:#f85149" title="caiu">▼</span> | 11.7% | 21.9% | 🔴 +5,7% (p96) |
+| 🟢 | **BRASIL** `BBAS3` | Financeiro | 16,83 <span style="color:#3fb950" title="subiu">▲</span> | 0.8% | 21.9% | 🔴 +13,1% (p96) |
+| 🟢 | **BRADESCO** `BBDC4` | Financeiro | 16,14 <span style="color:#3fb950" title="subiu">▲</span> | 14.8% | 18.0% | 🔴 +12,2% (p98) |
+| 🟢 | **REDE D OR** `RDOR3` | Saúde | 39,77 <span style="color:#3fb950" title="subiu">▲</span> | 13.3% | 6.2% | 🔴 +7,3% (p96) |
+| 🟢 | **WEG** `WEGE3` | Industrial | 50,33 <span style="color:#f85149" title="caiu">▼</span> | 0.0% | 10.2% | −0,6% (p24) |
+| 🟢 | **AMBEV S/A** `ABEV3` | Consumo | 16,34 <span style="color:#3fb950" title="subiu">▲</span> | 0.8% | 10.2% | +1,7% (p52) |
+| 🟢 | **VALE** `VALE3` | Mineração | 57,35 <span style="color:#f85149" title="caiu">▼</span> | 0.0% | 7.0% | −1,4% (p50) |
+| 🟢 | **GERDAU** `GGBR4` | Siderurgia | 26,08 <span style="color:#f85149" title="caiu">▼</span> | 0.0% | 7.0% | +1,8% (p59) |
+| 🟢 | **ENEVA** `ENEV3` | Energia | 29,53 <span style="color:#3fb950" title="subiu">▲</span> | 4.7% | 2.3% | 🔴 +9,2% (p97) |
+| 🟢 | **EMBRAER** `EMBJ3` | Outros | 104,16 <span style="color:#f85149" title="caiu">▼</span> | 0.0% | 0.0% | −2,6% (p21) |
 
 <small>Destaques: 🟡 ≥ 60% · 🔴 ≥ 90% (ζ Topo) · 🔵 ≥ 60% · 🔪 ≥ 90% (ζ Fundo)<br>**Zona**: 🟢 calmo, 🟡 atenção e 🔴 extremo vêm do ζ Topo; 🔵 FUNDO (ζ Fundo ≥ 60%) e 🔪 FACA (≥ 90%) vêm do ζ Fundo e têm precedência, porque queda em andamento é fato medido, não previsão.<br>**Dist. média**: a distância do preço à média dos 252 candles de 15 min — **≈ 7,6 pregões**, medido em 33 barras por pregão — e, entre parênteses, o percentil dessa distância nos 500 candles anteriores (**≈ 15 pregões**). `−8,2% (p0)` = o preço está 8,2% **abaixo** da média e nunca esteve tão abaixo em toda a janela. 🔵 ≤ p10 · 🔴 ≥ p90. É a régua simples contra a qual o ζ precisa provar que acrescenta algo.</small>
 
 ![Monitor multi-ativo](../graficos/multi_intraday.png)
 
-*Página atualizada em 27/11/2026 16:45 BRT (leitura da barra de 2026-11-27 16:30 BRT · preço da corretora, tempo real).*
+*Página atualizada em 27/11/2026 17:00 BRT (leitura da barra de 2026-11-27 16:45 BRT · preço da corretora, tempo real).*
 
 > [!warning] O que este indicador não faz
 > Medido em 5 anos de Ibovespa, o ζ **não antecipa** topos nem fundos: a capacidade de separar o que sobe do que cai ficou em 0,49–0,52, e 0,50 é moeda jogada ao ar. Ele descreve o estado de agora; não é aviso do que vem. As zonas verde/amarelo/vermelho continuam na página como descrição desse estado — **não as use como sinal de entrada ou saída**.

diff --git a/content/index.md b/content/index.md
@@ -7,12 +7,12 @@ tags: [home]
 
 **As ondas do mercado, explicadas.** Leitura do Ibovespa com estatística de 26 anos, baseada no trabalho de pesquisadores e traders reconhecidos e adaptada por Jarbas Daniel da Costa.
 
-*Última atualização: 27/11/2026 16:45 BRT · Intraday 15min · preço da corretora, tempo real*
+*Última atualização: 27/11/2026 17:00 BRT · Intraday 15min · preço da corretora, tempo real*
 
-> [!success] Onde o mercado está agora (27/11 16:30, candles de 15 min): **🟢 Sem esticamento**
+> [!success] Onde o mercado está agora (27/11 16:45, candles de 15 min): **🟢 Sem esticamento**
 > `Pânico ◀───────●─────────────▶ Euforia` · ζ Topo **0%** · ζ Fundo **30%** · régua = ζ Topo − ζ Fundo = **−30 p.p.**
 >
-> **O Ibovespa está praticamente de lado agora, aos 177.312 pontos.** O preço não fez movimento brusco em relação à sua tendência, nem para cima nem para baixo. Isso fala da velocidade do movimento, não do nível do preço.
+> **O Ibovespa está praticamente de lado agora, aos 177.375 pontos.** O preço não fez movimento brusco em relação à sua tendência, nem para cima nem para baixo. Isso fala da velocidade do movimento, não do nível do preço.
 >
 > *Leitura educacional baseada em 26 anos de dados. Não é recomendação de investimento.*
 
@@ -44,27 +44,27 @@ tags: [home]
 *[Linha do tempo completa](linha-do-tempo/) — todo sinal, ordem, stop e aviso, do mais recente para o mais antigo. ⚡ = vale durante o pregão · ⏱ = no fechamento.*
 
 > [!info]- 🌊 Detalhes do Sinal IMA (indicadores e últimos 7 pregões)
-> > [!success] IMA Intraday · 15 min (27/11 16:30): 🟢 **VERDE** — ζ Topo **0%** · ＝ +0 p.p. vs leitura anterior
+> > [!success] IMA Intraday · 15 min (27/11 16:45): 🟢 **VERDE** — ζ Topo **0%** · ＝ +0 p.p. vs leitura anterior
 > > `░░░░░░░░░░░░░░░░░░░░` **0%**
 > > Sem esticamento brusco em relação à tendência.
 >
 >
-> | Indicador — IMA Intraday · 15 min (27/11 16:30) | Valor |
+> | Indicador — IMA Intraday · 15 min (27/11 16:45) | Valor |
 > |---|---|
 > | ζ Topo — preço esticado acima da tendência | **0%** |
 > | ζ Fundo — preço esticado abaixo da tendência | 30% |
 > | 🟢 Zona | VERDE |
-> | 📊 Ibovespa | 177.312 pts <span style="color:#3fb950" title="subiu">▲</span> (+0,09%) |
+> | 📊 Ibovespa | 177.375 pts <span style="color:#3fb950" title="subiu">▲</span> (+0,04%) |
 > | 📏 Distância da média | 🔴 +5,0% (p97) |
 > | 🛰 Fonte do preço | preço da corretora, tempo real |
 >
-> **Multi-ativo:** 4% em tensão (0🔴 3🟡 de 27 ativos)
+> **Multi-ativo:** 4% em tensão (0🔴 2🟡 de 27 ativos)
 >
 > **Últimos 7 pregões**
 >
 > | Data | Fechamento | Zona | ζ Topo | ζ Fundo | Dist. média |
 > |---|---|---|---|---|---|
-> | [27/11/2026](intraday/2026-11-27) | 177.312 <span style="color:#3fb950" title="subiu">▲</span> | 🟢 | **0%** | **30%** | 🔴 +5,0% (p97) |
+> | [27/11/2026](intraday/2026-11-27) | 177.375 <span style="color:#3fb950" title="subiu">▲</span> | 🟢 | **0%** | **30%** | 🔴 +5,0% (p97) |
 > | [26/11/2026](intraday/2026-11-26) | 176.800 <span style="opacity:.45" title="estável">▬</span> | 🔴 | 🔴 **99%** | **1%** | 🔴 +5,3% (p100) |
 >
 > <small>Destaques: 🟡 ≥ 60% · 🔴 ≥ 90% (ζ Topo) · 🔵 ≥ 60% · 🔪 ≥ 90% (ζ Fundo)<br>**Zona**: 🟢 calmo, 🟡 atenção e 🔴 extremo vêm do ζ Topo; 🔵 FUNDO (ζ Fundo ≥ 60%) e 🔪 FACA (≥ 90%) vêm do ζ Fundo e têm precedência, porque queda em andamento é fato medido, não previsão.<br>**Dist. média**: a distância do preço à média dos 252 pregões — **≈ 1 ano** — e, entre parênteses, o percentil dessa distância nos 500 pregões anteriores (**≈ 2 anos**). `−8,2% (p0)` = o preço está 8,2% **abaixo** da média e nunca esteve tão abaixo em toda a janela. 🔵 ≤ p10 · 🔴 ≥ p90. É a régua simples contra a qual o ζ precisa provar que acrescenta algo.</small>

diff --git a/content/operacoes/entradas.md b/content/operacoes/entradas.md
@@ -81,7 +81,7 @@ description: "Compra depois de um sinal de fundo: Nadaraya no diário, semáforo
 > | H4 · Semáforo N2 | 05/05/26 10h a 186.583 | 07/05/26 10h a 186.583 | **+0,0%** | stop no preço de entrada |
 > | Semanal · Semáforo N2 | semana de 17/02/25 a 127.128 | semana de 13/04/26 a 195.734 | **+54,0%** | limite de 60 candles |
 >
-> <small>Atualizado 26/11 19:04 · checado no pregão às 16:45. Nota: ✅ passou no teste fora da amostra (walk-forward 2008–2026) · 🧪 em teste (H4, com aviso no Telegram) ou em observação (ζ, sem aviso) · 🧪 na tabela = operação do teste ao vivo.</small>
+> <small>Atualizado 26/11 19:04 · checado no pregão às 17:00. Nota: ✅ passou no teste fora da amostra (walk-forward 2008–2026) · 🧪 em teste (H4, com aviso no Telegram) ou em observação (ζ, sem aviso) · 🧪 na tabela = operação do teste ao vivo.</small>
 >
 > *Regras: depois de um sinal de fundo, o Diário entra quando o Nadaraya vira para cima; o Semanal e o H4 entram quando um fundo do semáforo fica fixo. Stop e saída de cada regra na [metodologia](metodologia/regras-de-operacao#entradas-do-método). Nenhuma regra de venda passou no teste. Os números do histórico têm viés de escolha (overfitting); o placar ao vivo é o que vale. Leitura educacional do método, não recomendação.*
 

diff --git a/content/integridade/index.md b/content/integridade/index.md
@@ -6,7 +6,7 @@ description: "O que foi conferido, contra qual fonte e quando — medido na hora
 tags: [integridade]
 ---
 
-*Pregão conferido: **26/11/2026**, com 61 tabelas no acervo · página gerada em 27/11/2026 16:45*
+*Pregão conferido: **26/11/2026**, com 61 tabelas no acervo · página gerada em 27/11/2026 17:00*
 
 O pregão conferido é o último **fechado e arquivado inteiro**, não o de hoje: enquanto o dia corre, só algumas tabelas estão gravadas, e conferir um dia pela metade produziria alarme falso.
 
@@ -23,7 +23,7 @@ Esta página não declara que o site está correto. Ela **mede** e escreve o res
 | Tabelas com conteúdo fora da curva | nenhuma |
 | Páginas publicadas | 374 |
 | Conferências cruzadas das páginas | 71 certas, nenhuma divergência |
-| Página escrita mais recentemente | 27/11 16:45 |
+| Página escrita mais recentemente | 27/11 17:00 |
 | Páginas sem data no cabeçalho | 9 — cegas para a conferência de dado |
 
 ## 1 · Acervo do boletim diário

diff --git a/content/lppl.md b/content/lppl.md
@@ -5,7 +5,7 @@ date: 2026-11-27
 
 <p style="margin:.4rem 0 0"><span style="display:inline-block;text-align:center;margin:0 1.8rem .2rem 0"><span style="font-size:4rem;font-weight:800;line-height:1;color:inherit">0%</span><br><span style="font-size:.95rem;opacity:.75">bolha</span></span><span style="display:inline-block;text-align:center;margin:0 1.8rem .2rem 0"><span style="font-size:4rem;font-weight:800;line-height:1;color:inherit">0%</span><br><span style="font-size:.95rem;opacity:.75">antibolha</span></span></p>
 
-**Leitura de 26/11/2026** · pagina gerada em 27/11/2026 16:45 BRT
+**Leitura de 26/11/2026** · pagina gerada em 27/11/2026 17:00 BRT
 
 O LPPL **não** decide o semáforo do site — veja a nota no fim. Sobre o que conta como sinal, leia a seção *O único episódio* antes de tratar qualquer numero daqui como alto: a referencia de 30% que esta página usava perdeu o lastro na remedição de 25/11/2026.
 

diff --git a/content/operacoes/ranking.md b/content/operacoes/ranking.md
@@ -56,7 +56,7 @@ description: "As regras de compra do site ordenadas pelo resultado, com treino, 
 > 
 > Operação **com 🧪** começou depois de **23/10/2026**, com as regras congeladas. É o único resultado sem nenhum ajuste ao passado, e é por ele que cada regra está sendo julgada.
 
-*Atualizado 27/11/2026 16:45 · histórico simulado com as regras congeladas em 23/10/2026 + placar ao vivo.*
+*Atualizado 27/11/2026 17:00 · histórico simulado com as regras congeladas em 23/10/2026 + placar ao vivo.*
 
 As regras de compra do site, **da que mais rendeu para a que menos rendeu**. O resultado é por operação, no índice à vista, sem custos e sem juros compostos (a soma é só a soma das operações). **Treino** = entradas de 2001 a 2013 e **teste** = 2014 em diante: uma regra só é confiável se ganhou nos dois. O único resultado sem nenhum ajuste ao histórico é o **placar ao vivo**.
 

diff --git a/content/historico.md b/content/historico.md
@@ -5,7 +5,7 @@ tags: [historico]
 
 # 📜 Histórico de leituras (v5)
 
-**2.677 leituras** desde 2026-07-03. Na página ficam os últimos 3 dias leitura por leitura e o resumo de cada dia anterior; o registro inteiro está no arquivo para baixar.
+**2.678 leituras** desde 2026-07-03. Na página ficam os últimos 3 dias leitura por leitura e o resumo de cada dia anterior; o registro inteiro está no arquivo para baixar.
 
 [**Baixar o histórico completo**](historico-completo.csv) (117 KB · abre no Excel e no LibreOffice)
 
@@ -18,6 +18,7 @@ tags: [historico]
 
 | Data | Zona | ζ Topo |
 |---|---|---|
+| 2026-11-27 16:45 | 🟢 | **0%** |
 | 2026-11-27 16:30 | 🟢 | **0%** |
 | 2026-11-27 16:15 | 🟢 | **0%** |
 | 2026-11-27 16:00 | 🟢 | **4%** |

diff --git a/content/linha-do-tempo/index.md b/content/linha-do-tempo/index.md
@@ -5,7 +5,7 @@ description: "Todo sinal, ordem, stop e aviso do Pêndulo de Mercado, do mais re
 tags: [eventos]
 ---
 
-*Atualizada 27/11/2026 16:45 BRT · a cada 15 min no pregão e às 19h.*
+*Atualizada 27/11/2026 17:00 BRT · a cada 15 min no pregão e às 19h.*
 
 Tudo o que o sistema fez ou detectou, **do mais recente para o mais antigo**: sinais de topo e fundo, ordens de compra e de venda armadas, compras, vendas, stops, avisos de 🚨 preço perto do nível e mudanças do Sinal IMA. Os **últimos 7 dias** ficam abertos; o resto, por **ano → mês → dia**.
 

diff --git a/content/avisos/index.md b/content/avisos/index.md
@@ -2,7 +2,7 @@
 title: "⚠ Avisos: o que saber antes de usar os números"
 ---
 
-*Gerado em 27/11/2026 16:45*
+*Gerado em 27/11/2026 17:00*
 
 Este site publica muitos números, e cada um tem uma limitação que importa na hora de
 decidir. As limitações estão escritas nas próprias páginas, mas quem chega direto numa
